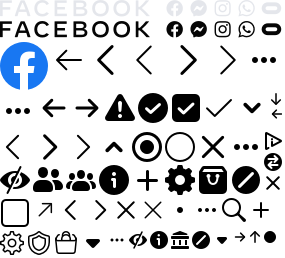
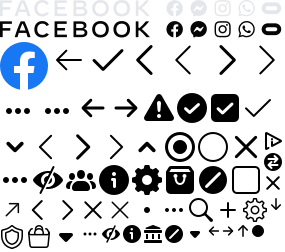
Added Only Me

diff --git a/src/components/modal/CreatePostModal.tsx b/src/components/modal/CreatePostModal.tsx
@@ -1,4 +1,6 @@
+import { Link } from "react-router-dom";
 import Modal from "./core/Modal";
+import demo from "@/assets/profile/small.jpg";
 
 type CreatePostProps = {
   onClose: () => void;
@@ -7,7 +9,27 @@ type CreatePostProps = {
 function CreatePostModal({ onClose }: CreatePostProps) {
   return (
     <Modal heading="Create post" onClose={onClose} contentClassName="max-w-lg">
-      This is the modal
+      <div>
+        <div className="flex items-center space-x-3 rounded-lg">
+          <Link to={"/"}>
+            <img src={demo} className="h-10 w-10 rounded-full" alt="alt" />
+          </Link>
+          <div>
+            <span className="sidebar-label">Prabin Gautam</span>
+            <div className="flex w-fit items-center space-x-1 rounded-md bg-[--secondary-btn-bg] px-2 py-1">
+              <img
+                className="filter-primary h-3 w-3"
+                src="/image/lock.png"
+                alt="lock"
+              />
+              <span className="text-[13px] font-semibold leading-4">
+                Only Me
+              </span>
+              <i className="filter-primary inline-block h-3 w-3 bg-whole bg-no-repeat [background-position-x:-124px] [background-position-y:-150px]"></i>
+            </div>
+          </div>
+        </div>
+      </div>
     </Modal>
   );
 }

diff --git a/tailwind.config.js b/tailwind.config.js
@@ -37,10 +37,12 @@ export default {
       backgroundImage: {
         "sidebar-home": "url('./assets/image/sidemenu.png')",
         "sidebar-social": "url('./assets/image/social.png')",
+        whole: "url('./assets/image/whole.png')",
       },
       backgroundSize: {
         social: "38px 112px",
         sidebar: "38px 570px",
+        whole: "190px 168px",
       },
       fontSize: {
         smm: "15px",
